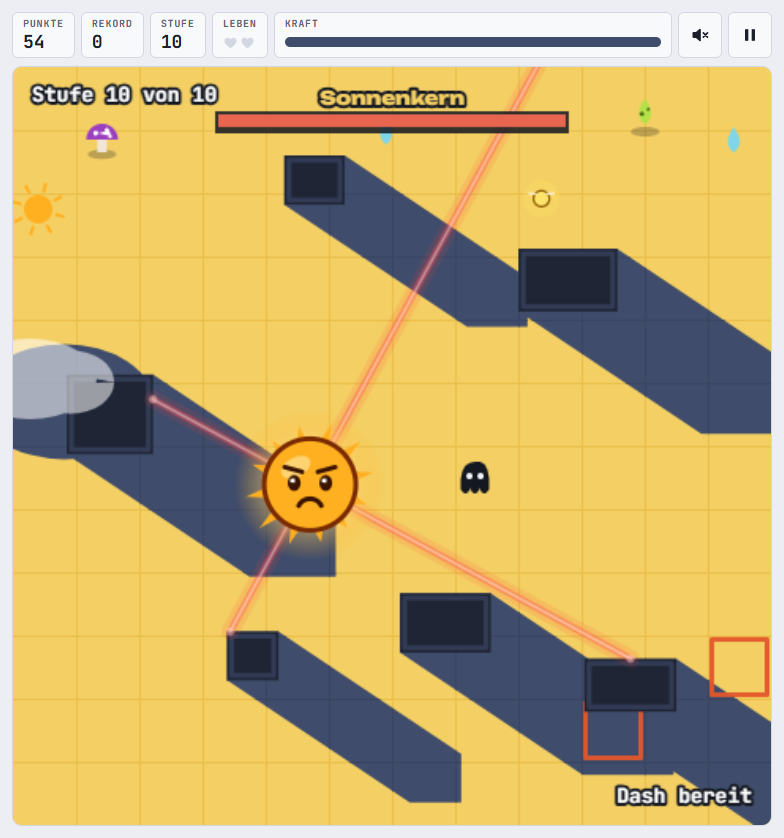
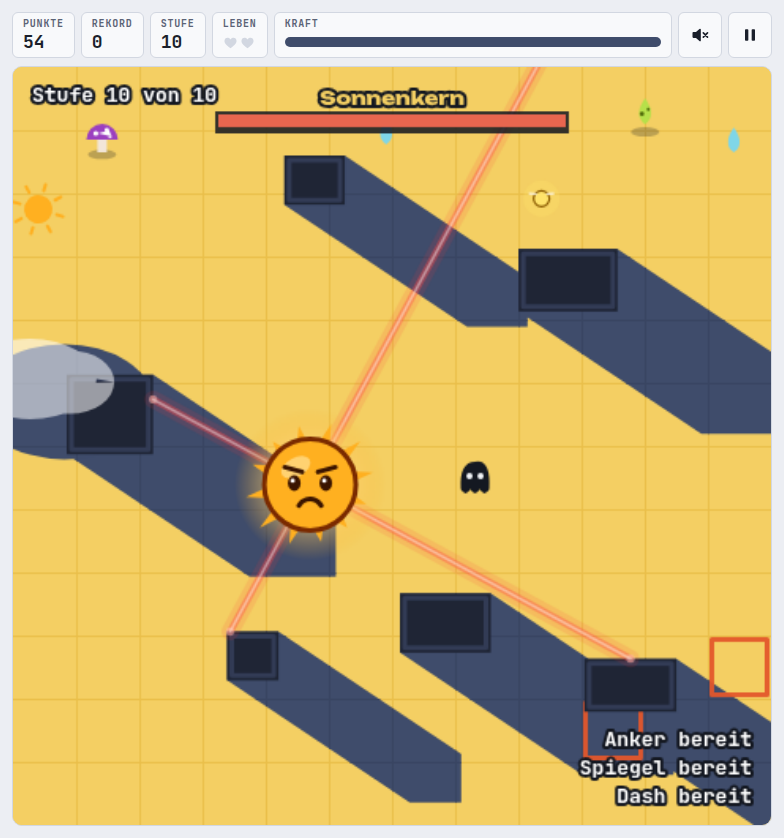
Screenshots neu: neue Anzeige, Bild vom wütenden Boss mit Spiegel und Anker
- Alle README-Bilder neu erzeugt (Anker/Spiegel-Anzeige, 44 Erfolge)
- Neues Bild boss-wut-spiegel.png
- Debug-Start: rage=1, anchor=1, parry=1 für reproduzierbare Aufnahmen
- screenshots.mjs: SHADY_EXE für ein bestimmtes Chromium

Claude-Session: https://claude.ai/code/session_01NfxzVwMRztK27Eyb43oGBa

diff --git a/js/data.js b/js/data.js
@@ -3,7 +3,8 @@
 
 // ---------- Debug-Start (nur für automatische Screenshots) ----------
 // ?debug=1 startet direkt eine Runde mit festem Zufall und fester Bildrate, z. B.
-// ?debug=1&event=colorchaos&level=5&seed=7&boss=queen&mode=endless&diff=normal&lang=de&flashes=1&frames=120&map=cellar (screen=menu zeigt das Hauptmenü, screen=wardrobe|modes|ach|help|settings den jeweiligen Bildschirm).
+// ?debug=1&event=colorchaos&level=5&seed=7&boss=queen&mode=endless&diff=normal&lang=de&flashes=1&frames=120&map=cellar
+// &rage=1 (Boss startet mit halben Leben, also wütend) &anchor=1 (Anker liegt schon) &parry=1 (pariert automatisch jede Lichtkugel) (screen=menu zeigt das Hauptmenü, screen=wardrobe|modes|ach|help|settings den jeweiligen Bildschirm).
 // Nach „frames“ Bildern bleibt das Bild stehen. Ohne ?debug=1 ändert sich nichts. Im Debug-Modus wird nie gespeichert.
 const DEBUG = (() => {
   const q = new URLSearchParams(location.search);
@@ -11,6 +12,7 @@ const DEBUG = (() => {
   const num = (k, d) => { const v = parseInt(q.get(k), 10); return Number.isFinite(v) ? v : d; };
   const d = { seed: num('seed', 1) >>> 0, level: Math.max(1, num('level', 1)), frames: num('frames', 1e9), event: q.get('event'), boss: q.get('boss'),
               mode: q.get('mode') || 'endless', diff: q.get('diff') || 'normal', lang: q.get('lang'), flashes: q.get('flashes'), screen: q.get('screen') || 'play', map: q.get('map'),
+              rage: q.get('rage') === '1', anchor: q.get('anchor') === '1', parry: q.get('parry') === '1',
               frame: 0, left: 0, done: false };
   Math.random = mulberry32(d.seed ^ 0x9E3779B9);   // auch Effekte würfeln reproduzierbar
   return d;

diff --git a/js/ui.js b/js/ui.js
@@ -859,6 +859,7 @@ function loop(now) {
   if (DEBUG) {   // feste Bildrate, nach „frames“ Bildern bleibt alles stehen
     if (DEBUG.left <= 0) { DEBUG.done = DEBUG.frame > 0; requestAnimationFrame(loop); return; }
     DEBUG.left--; DEBUG.frame++; DEBUG.done = false; dt = 1 / 60; now = DEBUG.frame * 1000 / 60;
+    if (DEBUG.parry && S.mode === 'play' && S.shots.some(q => !q.ref && !q.hard && Math.hypot(q.x - S.p.x, q.y - S.p.y) < 28)) parry();
   }
   if (S.mode === 'pick') {
     if (pickTimer > 0) {
@@ -921,7 +922,8 @@ function debugStart() {
     startRun({ mode: DEBUG.mode, diff: P.settings.diff, seed: DEBUG.seed, map: MAP_BY[DEBUG.map] ? DEBUG.map : 'yard' });
     S.level = DEBUG.level - 1; S.grace = 1e9; Sound.setLevel(S.level);
     const b = DEBUG.boss && (DEBUG.boss === 'core' ? CORE : BOSSES.find(x => x.type === DEBUG.boss));
-    if (b) spawnBoss(b);
+    if (b) { spawnBoss(b); if (DEBUG.rage) S.boss.hp = Math.floor(S.boss.maxHp / 2); }
+    if (DEBUG.anchor) { S.anchor = { x: S.p.x - 70, y: S.p.y + 40, life: ANCHOR_LIFE }; resolve(); }
     const ev = DEBUG.event && EVENTS.find(e => e.id === DEBUG.event || e.name === DEBUG.event);
     if (ev) startEvent(ev);
     hud();

diff --git a/README.md b/README.md
@@ -53,6 +53,11 @@ Es gibt nichts zu installieren. Das Spiel läuft auf dem PC und auf dem Handy, a
   <em>Farbchaos auf Stufe 10 im Bosskampf gegen den Sonnenkern</em>
 </p>
 
+<p align="center">
+  <img src="screenshots/boss-wut-spiegel.png" alt="Die wütende Käferkönigin mit rotem Schein schießt rote Glutkugeln. Die Spielfigur pariert mit dem Spiegel, eine lila Kugel fliegt zum Boss zurück, daneben liegt der Schattenanker." width="420"><br>
+  <em>Wütende Käferkönigin: Spiegel pariert die gelben Kugeln, den roten Glutkugeln musst du ausweichen. Daneben der Schattenanker.</em>
+</p>
+
 Alle Bilder erzeugt [`tools/screenshots.mjs`](tools/screenshots.mjs) automatisch, siehe [Für Entwickler](#für-entwickler).
 
 ## Spielen
@@ -307,6 +312,7 @@ index.html?debug=1&lang=de&map=cellar&level=5&boss=eater&event=colorchaos&frames
 | `lang`, `flashes` | `de` oder `en`, `1` oder `0` |
 | `frames` | Nach so vielen Bildern bleibt das Bild stehen |
 | `screen` | `menu`, `modes`, `wardrobe`, `ach`, `help`, `settings` zeigt einen Menübildschirm statt einer Runde |
+| `rage`, `anchor`, `parry` | `1`: Boss startet wütend (halbe Leben), Anker liegt schon, Figur pariert automatisch jede Lichtkugel |
 
 ### Veröffentlichen
 
